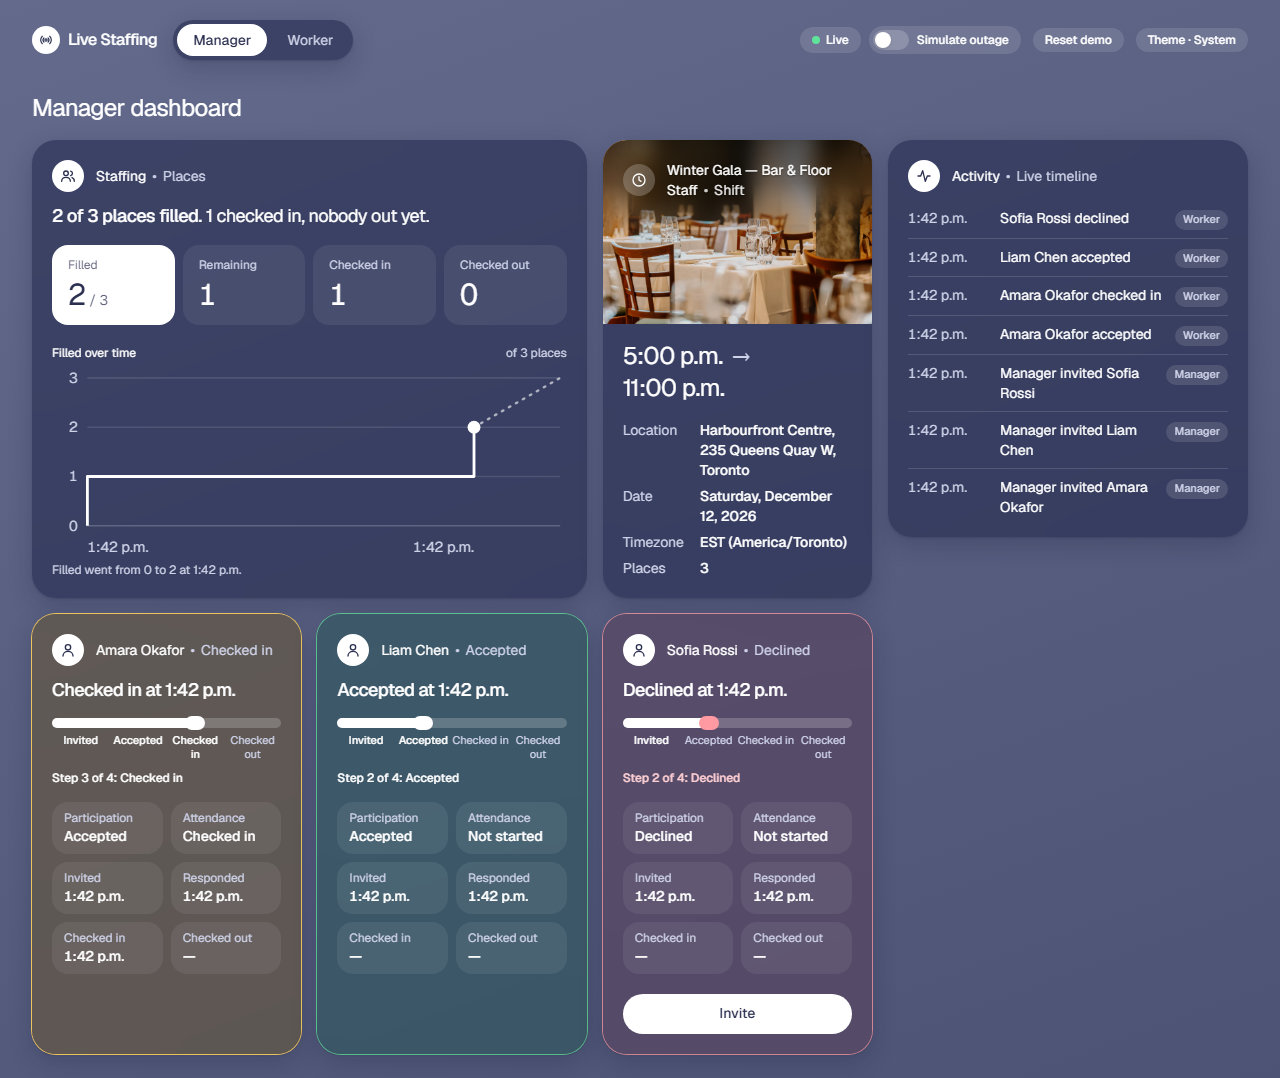
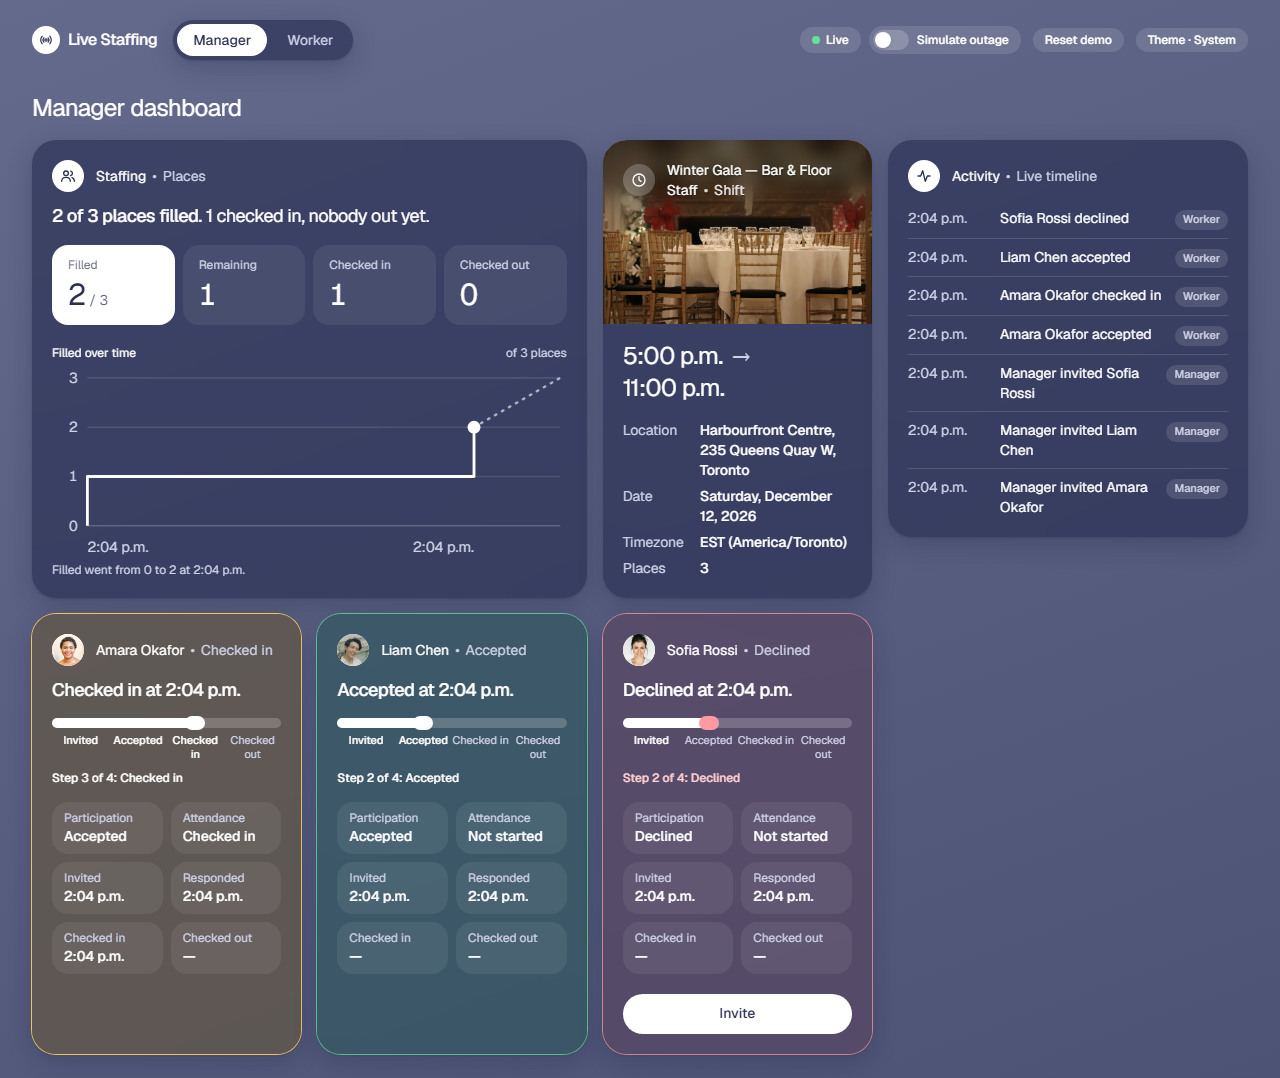
Worker profile photos and a Winter Gala shift photo
Gives the three demo workers real faces and the Shift card a winter gala
photo (#66).

- Worker card headers (Manager dashboard and the Worker status card) show
  each worker's round photo in place of the person icon, in the same
  32 px badge. A front-end WORKER_PHOTOS map by worker id feeds a reusable
  WorkerAvatar, which falls back to the icon. There's no API, schema or
  seed change. The photos are decorative (alt="").
- The Worker profile shows a 64 px photo to the left of the large name,
  and switches it with the "Who are you?" choice.
- The Shift card's restaurant photo is replaced by a gala table before a
  white-and-silver garlanded fireplace, cropped at 50% 40% so the bows
  stay in view on the wide band.
- All four images are free Unsplash License photos, bundled as webp
  (portraits ~3 KB, gala ~131 KB) and credited in the README.
  Screenshots regenerated.
- Component, page and e2e tests cover the header and profile photos (load,
  webp, size, round, decorative, distinct, icon fallback) and the gala
  image.

Closes #66
Closes #67
Closes #68
Closes #69
Closes #70

QA changes:
- None. QA passed without changes.

diff --git a/packages/e2e/tests/layout.spec.ts b/packages/e2e/tests/layout.spec.ts
@@ -69,6 +69,55 @@ test('the Shift card photo fills the free height, with the details at the bottom
   }
 });
 
+/** A loaded, decorative, round photo of about `size` px, served by the app as webp. */
+async function expectWorkerPhoto(page: Page, photo: Locator, size: number) {
+  await expect(photo).toHaveJSProperty('complete', true);
+  expect(await photo.evaluate((img: HTMLImageElement) => img.naturalWidth)).toBeGreaterThan(0);
+  expect(await photo.getAttribute('alt')).toBe('');
+  const b = await box(photo);
+  expect(Math.abs(b.width - size)).toBeLessThanOrEqual(1);
+  expect(Math.abs(b.height - size)).toBeLessThanOrEqual(1);
+  expect(await photo.evaluate((img) => getComputedStyle(img).borderRadius)).not.toBe('0px');
+  const res = await page.request.get(new URL((await photo.getAttribute('src'))!, page.url()).href);
+  expect(res.status()).toBe(200);
+  expect(res.headers()['content-type']).toContain('image/webp');
+}
+
+test("every worker card's header shows that worker's own 32 px photo", async ({ manager, workerPage }) => {
+  await openManager(manager);
+  const srcs = new Set<string>();
+  for (const name of Object.values(WORKERS)) {
+    const photo = managerWorker(manager, name).locator('header img');
+    await expectWorkerPhoto(manager, photo, 32);
+    srcs.add((await photo.getAttribute('src'))!);
+  }
+  expect(srcs.size).toBe(3);
+
+  // The worker's own status card on the Worker page too.
+  await openWorker(workerPage, WORKERS.liam);
+  const own = workerPage.getByRole('region', { name: /^Liam Chen, your status/ }).locator('header img');
+  await expectWorkerPhoto(workerPage, own, 32);
+});
+
+test("the Worker profile shows the chosen worker's 64 px photo left of their name", async ({
+  workerPage,
+}) => {
+  await openWorker(workerPage, WORKERS.amara);
+  const profile = workerPage.getByTestId('my-profile');
+  for (const width of [WIDTHS.desktop, WIDTHS.phone]) {
+    await workerPage.setViewportSize({ width, height: 900 });
+    const photo = profile.getByTestId('worker-photo');
+    await expectWorkerPhoto(workerPage, photo, 64);
+    const p = await box(photo);
+    const name = await box(profile.getByRole('heading', { name: WORKERS.amara }));
+    expect(p.x + p.width).toBeLessThanOrEqual(name.x);
+    // Same row: the name sits within the photo's height.
+    expect(name.y).toBeGreaterThanOrEqual(p.y - 1);
+    expect(name.y + name.height).toBeLessThanOrEqual(p.y + p.height + 1);
+    await expectNoSideScroll(workerPage);
+  }
+});
+
 test('the shared layout spans the full width with lined-up gutters and no side scroll', async ({
   manager,
   workerPage,

diff --git a/packages/web/src/components/WorkerCard.test.tsx b/packages/web/src/components/WorkerCard.test.tsx
@@ -1,0 +1,41 @@
+import { render, screen } from '@testing-library/react';
+import { describe, expect, it } from 'vitest';
+import { worker } from '../test/render';
+import { WorkerCard } from './WorkerCard';
+
+const header = (name: string) =>
+  screen.getByRole('heading', { name: new RegExp(`^${name}`) }).closest('header')!;
+
+describe('WorkerCard header photo', () => {
+  it.each([
+    ['amara', 'Amara Okafor'],
+    ['liam', 'Liam Chen'],
+    ['sofia', 'Sofia Rossi'],
+  ])("shows %s's own round, decorative photo instead of the person icon", (id, name) => {
+    render(<WorkerCard worker={worker(id, name)} timeZone="America/Toronto" />);
+    const img = header(name).querySelector('img');
+    expect(img).not.toBeNull();
+    expect(img).toHaveAttribute('alt', '');
+    expect(img).toHaveAttribute('src', expect.stringMatching(new RegExp(`${id}.*\\.webp`)));
+    expect(img).toHaveClass('rounded-full', 'object-cover');
+    expect(header(name).querySelector('svg')).toBeNull();
+    // Decorative: nothing for assistive tech to announce twice.
+    expect(screen.queryByRole('img')).toBeNull();
+  });
+
+  it('gives each worker a different photo', () => {
+    const srcs = ['amara', 'liam', 'sofia'].map((id) => {
+      const { container, unmount } = render(<WorkerCard worker={worker(id, id)} timeZone="UTC" />);
+      const src = container.querySelector('header img')!.getAttribute('src');
+      unmount();
+      return src;
+    });
+    expect(new Set(srcs).size).toBe(3);
+  });
+
+  it('falls back to the person icon for a worker without a photo', () => {
+    render(<WorkerCard worker={worker('ghost', 'Gus Ghost')} timeZone="UTC" />);
+    expect(header('Gus Ghost').querySelector('img')).toBeNull();
+    expect(header('Gus Ghost').querySelector('svg')).not.toBeNull();
+  });
+});

diff --git a/packages/web/src/components/ShiftDetails.tsx b/packages/web/src/components/ShiftDetails.tsx
@@ -1,12 +1,12 @@
 import type { Shift } from '@staffing/domain';
-// Photo by Guillaume DHALLUIN on Unsplash (Unsplash License); credited in the README.
-import restaurantPhoto from '../assets/shift-restaurant.webp';
+// Photo by Rebecca Johnsen on Unsplash (Unsplash License); credited in the README.
+import galaPhoto from '../assets/shift-winter-gala.webp';
 import { formatDate, formatTime, zoneName } from '../lib/time';
 import { Card } from './Card';
 import { ShiftIcon } from './icons';
 
 /**
- * The shift like a flight card: a restaurant photo under the title, then the time range in large
+ * The shift like a flight card: a winter gala photo under the title, then the time range in large
  * type and where and when, anchored at the bottom.
  */
 export function ShiftDetails({ shift, className }: { shift: Shift; className?: string }) {
@@ -18,7 +18,15 @@ export function ShiftDetails({ shift, className }: { shift: Shift; className?: s
       subtitle="Shift"
       className={className}
       // Decorative: the card reads the same without it.
-      media={<img src={restaurantPhoto} alt="" decoding="async" />}
+      media={
+        <img
+          src={galaPhoto}
+          alt=""
+          decoding="async"
+          // When the band is wide and short, keep the garland's bows above the set glasses in view.
+          className="object-[50%_40%]"
+        />
+      }
     >
       <p data-testid="shift-time" className="text-2xl tracking-tight">
         <span className="whitespace-nowrap">{formatTime(shift.startsAt, tz)}</span>

diff --git a/packages/web/src/pages/WorkerPage.test.tsx b/packages/web/src/pages/WorkerPage.test.tsx
@@ -113,6 +113,29 @@ describe('worker page', () => {
     expect(detail(liam, 'Address')).toHaveTextContent('412 Spadina Ave, Toronto');
   });
 
+  it("shows the chosen worker's photo beside their name, and switches it with the choice", async () => {
+    renderApp('/worker');
+    await pickWorker('Liam Chen');
+    const photo = () => within(screen.getByTestId('profile-photo')).getByTestId('worker-photo');
+    expect(photo()).toHaveAttribute('alt', '');
+    expect(photo()).toHaveAttribute('src', expect.stringMatching(/liam.*\.webp/));
+    // Beside the name: the photo and the heading share one row.
+    const heading = within(screen.getByTestId('my-profile')).getByRole('heading', { name: 'Liam Chen' });
+    expect(heading.parentElement).toContainElement(screen.getByTestId('profile-photo'));
+
+    await pickWorker('Sofia Rossi');
+    expect(photo()).toHaveAttribute('src', expect.stringMatching(/sofia.*\.webp/));
+  });
+
+  it('shows the person icon in the profile for a worker without a photo', async () => {
+    stubFetch(jsonResponse(200, makeSnapshot([worker('ghost', 'Gus Ghost')])));
+    renderApp('/worker');
+    await pickWorker('Gus Ghost');
+    const badge = screen.getByTestId('profile-photo');
+    expect(badge.querySelector('img')).toBeNull();
+    expect(badge.querySelector('svg')).not.toBeNull();
+  });
+
   it('ignores a remembered worker that no longer exists', async () => {
     localStorage.setItem(WORKER_STORAGE_KEY, 'ghost');
     renderApp('/worker');

diff --git a/packages/web/src/pages/WorkerPage.tsx b/packages/web/src/pages/WorkerPage.tsx
@@ -6,6 +6,7 @@ import { Select } from '../components/Select';
 import { ShiftDetails } from '../components/ShiftDetails';
 import { Card } from '../components/Card';
 import { WorkerIcon } from '../components/icons';
+import { WorkerAvatar } from '../components/WorkerAvatar';
 import { WorkerCard } from '../components/WorkerCard';
 import { readStorage, writeStorage } from '../lib/storage';
 import { useSnapshot } from '../lib/useSnapshot';
@@ -28,7 +29,7 @@ function noActionHint(w: WorkerState): string {
     : NO_ACTION_HINT[w.participation];
 }
 
-/** The chosen worker's name, large, then their details. */
+/** The chosen worker's photo beside their name, large, then their details. */
 function Profile({ worker: w }: { worker: Worker }) {
   const rows: [string, ReactNode][] = [
     ['Role', w.role],
@@ -38,7 +39,12 @@ function Profile({ worker: w }: { worker: Worker }) {
   ];
   return (
     <div className="mt-5" data-testid="my-profile">
-      <h3 className="text-2xl leading-tight tracking-tight">{w.name}</h3>
+      <div className="flex items-center gap-4">
+        <span className="icon-badge h-16 w-16" data-testid="profile-photo">
+          <WorkerAvatar workerId={w.id} iconSize={28} />
+        </span>
+        <h3 className="min-w-0 text-2xl leading-tight tracking-tight">{w.name}</h3>
+      </div>
       <dl className="mt-3 grid grid-cols-[auto_minmax(0,1fr)] gap-x-4 gap-y-1.5 text-sm">
         {rows.map(([label, value]) => (
           <Fragment key={label}>

diff --git a/packages/web/src/components/WorkerAvatar.tsx b/packages/web/src/components/WorkerAvatar.tsx
@@ -1,0 +1,28 @@
+// Stock portraits from Unsplash (Unsplash License), credited in the README. The names and details
+// are made-up demo data; these are models, not the people named.
+import amara from '../assets/workers/amara.webp'; // alex starnes
+import liam from '../assets/workers/liam.webp'; // Hà Nguyễn
+import sofia from '../assets/workers/sofia.webp'; // Jake Nackos
+import { WorkerIcon } from './icons';
+
+/** Bundled photos by worker id. Only the seeded workers have one; anyone else gets the icon. */
+export const WORKER_PHOTOS: Readonly<Record<string, string>> = { amara, liam, sofia };
+
+/**
+ * A worker's face, filling the round badge it sits in (the card header's, or a bigger one), or the
+ * person icon when there's no photo. Decorative: the name is always right next to it.
+ */
+export function WorkerAvatar({ workerId, iconSize }: { workerId: string; iconSize?: number }) {
+  const src = WORKER_PHOTOS[workerId];
+  return src ? (
+    <img
+      src={src}
+      alt=""
+      decoding="async"
+      data-testid="worker-photo"
+      className="h-full w-full rounded-full object-cover"
+    />
+  ) : (
+    <WorkerIcon size={iconSize} />
+  );
+}

diff --git a/packages/web/src/components/WorkerCard.tsx b/packages/web/src/components/WorkerCard.tsx
@@ -3,11 +3,11 @@ import type { ReactNode } from 'react';
 import { formatTime } from '../lib/time';
 import { toneFor, trackerFor, workerSentence } from '../lib/tracker';
 import { Card } from './Card';
-import { WorkerIcon } from './icons';
 import { Tracker } from './Tracker';
+import { WorkerAvatar } from './WorkerAvatar';
 
 /**
- * One worker as a card (manager page and the worker's own page): name • status in the header,
+ * One worker as a card (manager page and the worker's own page): their photo and name • status in the header,
  * a sentence about the latest change, the tracker, then status and all four timestamps.
  */
 export function WorkerCard({
@@ -40,7 +40,7 @@ export function WorkerCard({
   ];
   return (
     <Card
-      icon={<WorkerIcon />}
+      icon={<WorkerAvatar workerId={w.id} />}
       title={title}
       subtitle={trackerFor(w).label}
       summary={workerSentence(w, timeZone)}

diff --git a/packages/functions/src/site.test.ts b/packages/functions/src/site.test.ts
@@ -12,7 +12,7 @@ beforeAll(() => {
   mkdirSync(join(root, 'assets'));
   writeFileSync(join(root, 'assets', 'index-abc123.js'), 'console.log(1)');
   writeFileSync(join(root, 'favicon.svg'), '<svg/>');
-  writeFileSync(join(root, 'assets', 'shift-restaurant-abc123.webp'), Buffer.from([0x52, 0x49, 0x46, 0x46]));
+  writeFileSync(join(root, 'assets', 'shift-winter-gala-abc123.webp'), Buffer.from([0x52, 0x49, 0x46, 0x46]));
   handler = makeSiteHandler(root);
 });
 
@@ -42,7 +42,7 @@ describe('site handler', () => {
   });
 
   it('serves the Shift card photo as image/webp, byte for byte', async () => {
-    const r = await get('/assets/shift-restaurant-abc123.webp');
+    const r = await get('/assets/shift-winter-gala-abc123.webp');
     expect(r.statusCode).toBe(200);
     expect(r.headers?.['content-type']).toBe('image/webp');
     expect([...Buffer.from(r.body, 'base64')]).toEqual([0x52, 0x49, 0x46, 0x46]);

diff --git a/packages/web/src/components/ShiftDetails.test.tsx b/packages/web/src/components/ShiftDetails.test.tsx
@@ -23,7 +23,7 @@ describe('ShiftDetails', () => {
     const img = container.querySelector('img');
     expect(img).not.toBeNull();
     expect(img).toHaveAttribute('alt', '');
-    expect(img).toHaveAttribute('src', expect.stringMatching(/shift-restaurant.*\.webp/));
+    expect(img).toHaveAttribute('src', expect.stringMatching(/shift-winter-gala.*\.webp/));
     expect(img!.closest('[aria-hidden="true"]')).not.toBeNull();
     expect(screen.queryByRole('img')).toBeNull();
   });

diff --git a/README.md b/README.md
@@ -41,16 +41,16 @@ The URL is the stack's `SiteUrl` output; see [Site hosting](#site-hosting-tempor
     built from the event log. A dotted line runs from the latest point to the target (Filled up to the required
     count, Remaining down to 0). Every whole number on the Y axis is labelled with a faint gridline. The chart has
     a text alternative ("Checked in went from 0 to 2 between 3:01 p.m. and 3:05 p.m.").
-  - **Shift:** a restaurant photo under the title (white over a blurred, darkened band) that fills the card's
+  - **Shift:** a winter gala photo (a table set before a white-and-silver garlanded fireplace) under the title (white over a blurred, darkened band) that fills the card's
     free height, then the time range in large type and location, date and timezone, all in the shift's timezone.
-  - **One card per worker:** name • status, a sentence about the latest change ("Accepted at 3:04 p.m."), a
+  - **One card per worker:** the worker's round photo, name • status, a sentence about the latest change ("Accepted at 3:04 p.m."), a
     parcel-style tracker (Invited → Accepted → Checked in → Checked out; a decline or cancel stops the bar in
     muted red and says so in words), participation, attendance and all four timestamps, and **Invite** as a
     full-width pill when allowed. Manager actions are never optimistic.
   - **Activity:** the last 50 changes, newest first. It loads the end of the event log once, then takes each
     live or caught-up event as it arrives; after an outage the catch-up fills the gap in order.
 - **Worker** (`/worker`): a "Who are you?" picker (a themed, keyboard-friendly dropdown, no UI library), then
-  the chosen worker's name in large type with their role, phone, email and address (made-up demo details from
+  the chosen worker's photo beside their name in large type, with their role, phone, email and address (made-up demo details from
   the seed, restored by Reset demo), and the worker's own card in the same style. Actions are
   full-width pills: the step forward (Accept, Check in, Check out) is the primary slate ink (white in dark
   mode), the others a light secondary wash. Actions are
@@ -64,11 +64,18 @@ The URL is the stack's `SiteUrl` output; see [Site hosting](#site-hosting-tempor
   darker slate glass cards, white text and white selected pills, lavender-grey muted text and light glass
   secondary pills. Each theme's selected pill is the other theme's text colour. Colour is kept for state
   only: muted red for a stop or an error, a green dot for Live, amber while reconnecting. Five small hand-drawn SVG icons, no icon or chart library.
-- **Photo credit:** the Shift card's restaurant photo is by
-  [Guillaume DHALLUIN](https://unsplash.com/@lephotographelillois) on
-  [Unsplash](https://unsplash.com/photos/a-formal-dining-room-with-set-tables-N1IlIbAjfzs), used under the
-  [Unsplash License](https://unsplash.com/license). It is bundled with the app (a 131 KB webp), so it also loads
-  offline in local mode, and is decorative (empty alt text).
+- **Photo credits:** all photos are from Unsplash, used under the
+  [Unsplash License](https://unsplash.com/license). They are bundled with the app as webp, so they also load
+  offline in local mode, and are decorative (empty alt text, since the name or title is always beside them).
+  The worker portraits are stock photos of models, not the made-up people named.
+  - Shift card: the winter gala photo by [Rebecca Johnsen](https://unsplash.com/@uberzeught)
+    ([photo](https://unsplash.com/photos/XtPlbOvpu5E)), 1600 × 1067, 131 KB.
+  - Amara Okafor: [alex starnes](https://unsplash.com/@alexstarnes)
+    ([photo](https://unsplash.com/photos/WYE2UhXsU1Y)).
+  - Liam Chen: [Hà Nguyễn](https://unsplash.com/@lavinhha) ([photo](https://unsplash.com/photos/OFSQ6bHjFjs)).
+  - Sofia Rossi: [Jake Nackos](https://unsplash.com/@jakenackos)
+    ([photo](https://unsplash.com/photos/IF9TK5Uy-KI)).
+  - The portraits are cropped square around the face, 128 px (2× the largest display size), about 3 KB each.
 - **Theme:** follows the system setting; the header's Theme pill overrides it, each click moving System → Light
   → Dark → System (remembered in `localStorage` when available). Colours are CSS variable tokens, defined once for light and twice for dark (system and
   override).
